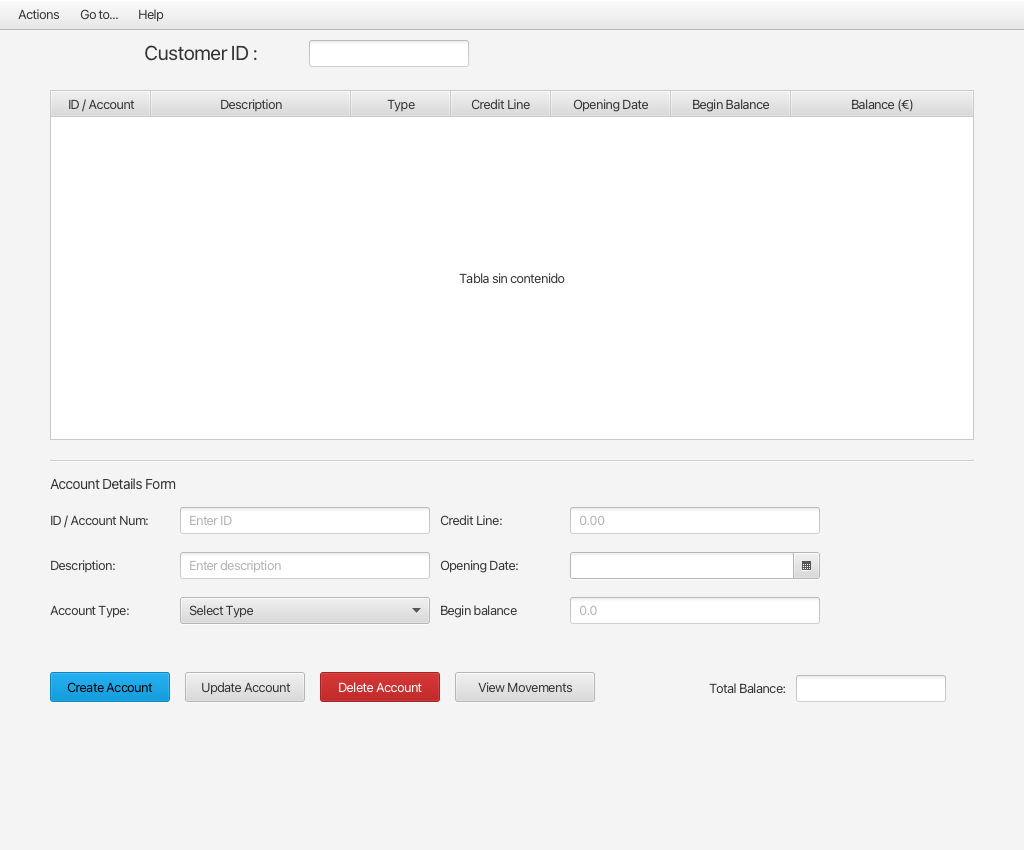
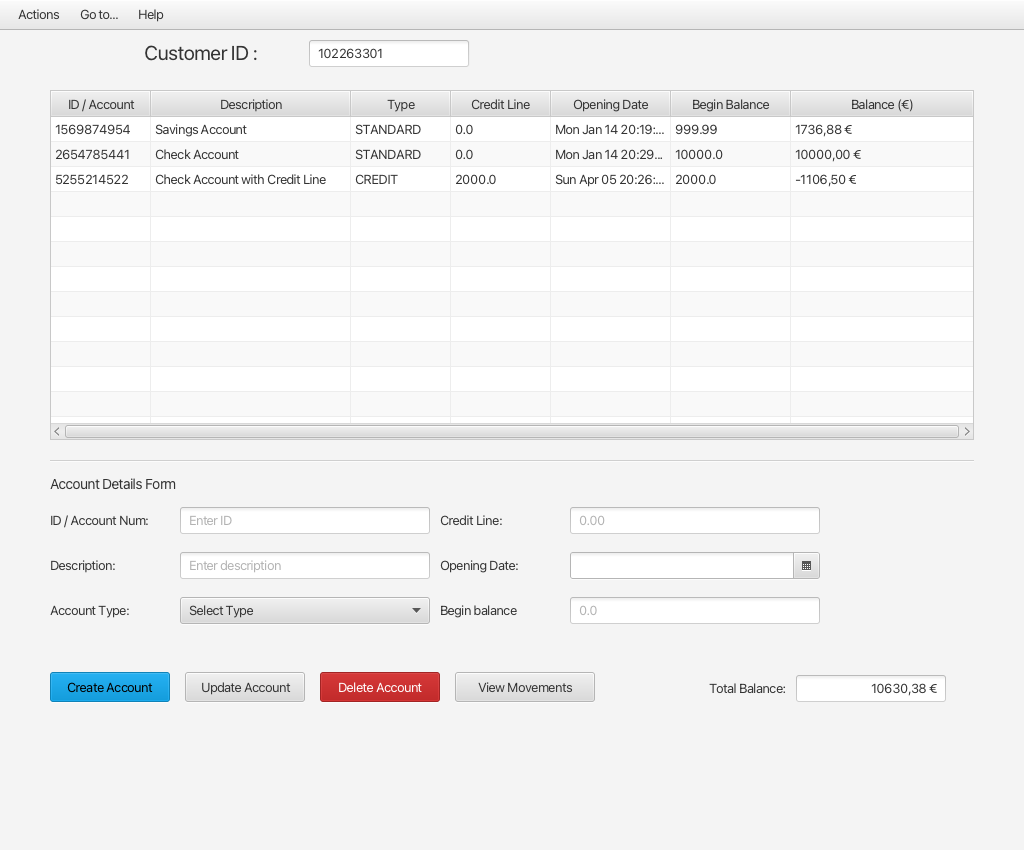
docs: capturas con datos reales (cliente contra backend REST)

diff --git a/README.md b/README.md
@@ -93,9 +93,9 @@ CRUD_Project/
 
 ## Capturas
 
-Renderizadas desde la propia aplicación JavaFX. Las tablas aparecen vacías
-porque el backend REST no está en ejecución (ver nota de arquitectura), pero
-las vistas, formularios y navegación son las reales de la app.
+Capturas reales de la aplicación JavaFX funcionando **de extremo a extremo**
+contra el backend REST (`CRUDBankServerSide` sobre Payara + MySQL), con datos
+reales de clientes, cuentas y movimientos.
 
 | Inicio de sesión | Registro |
 |:---:|:---:|
